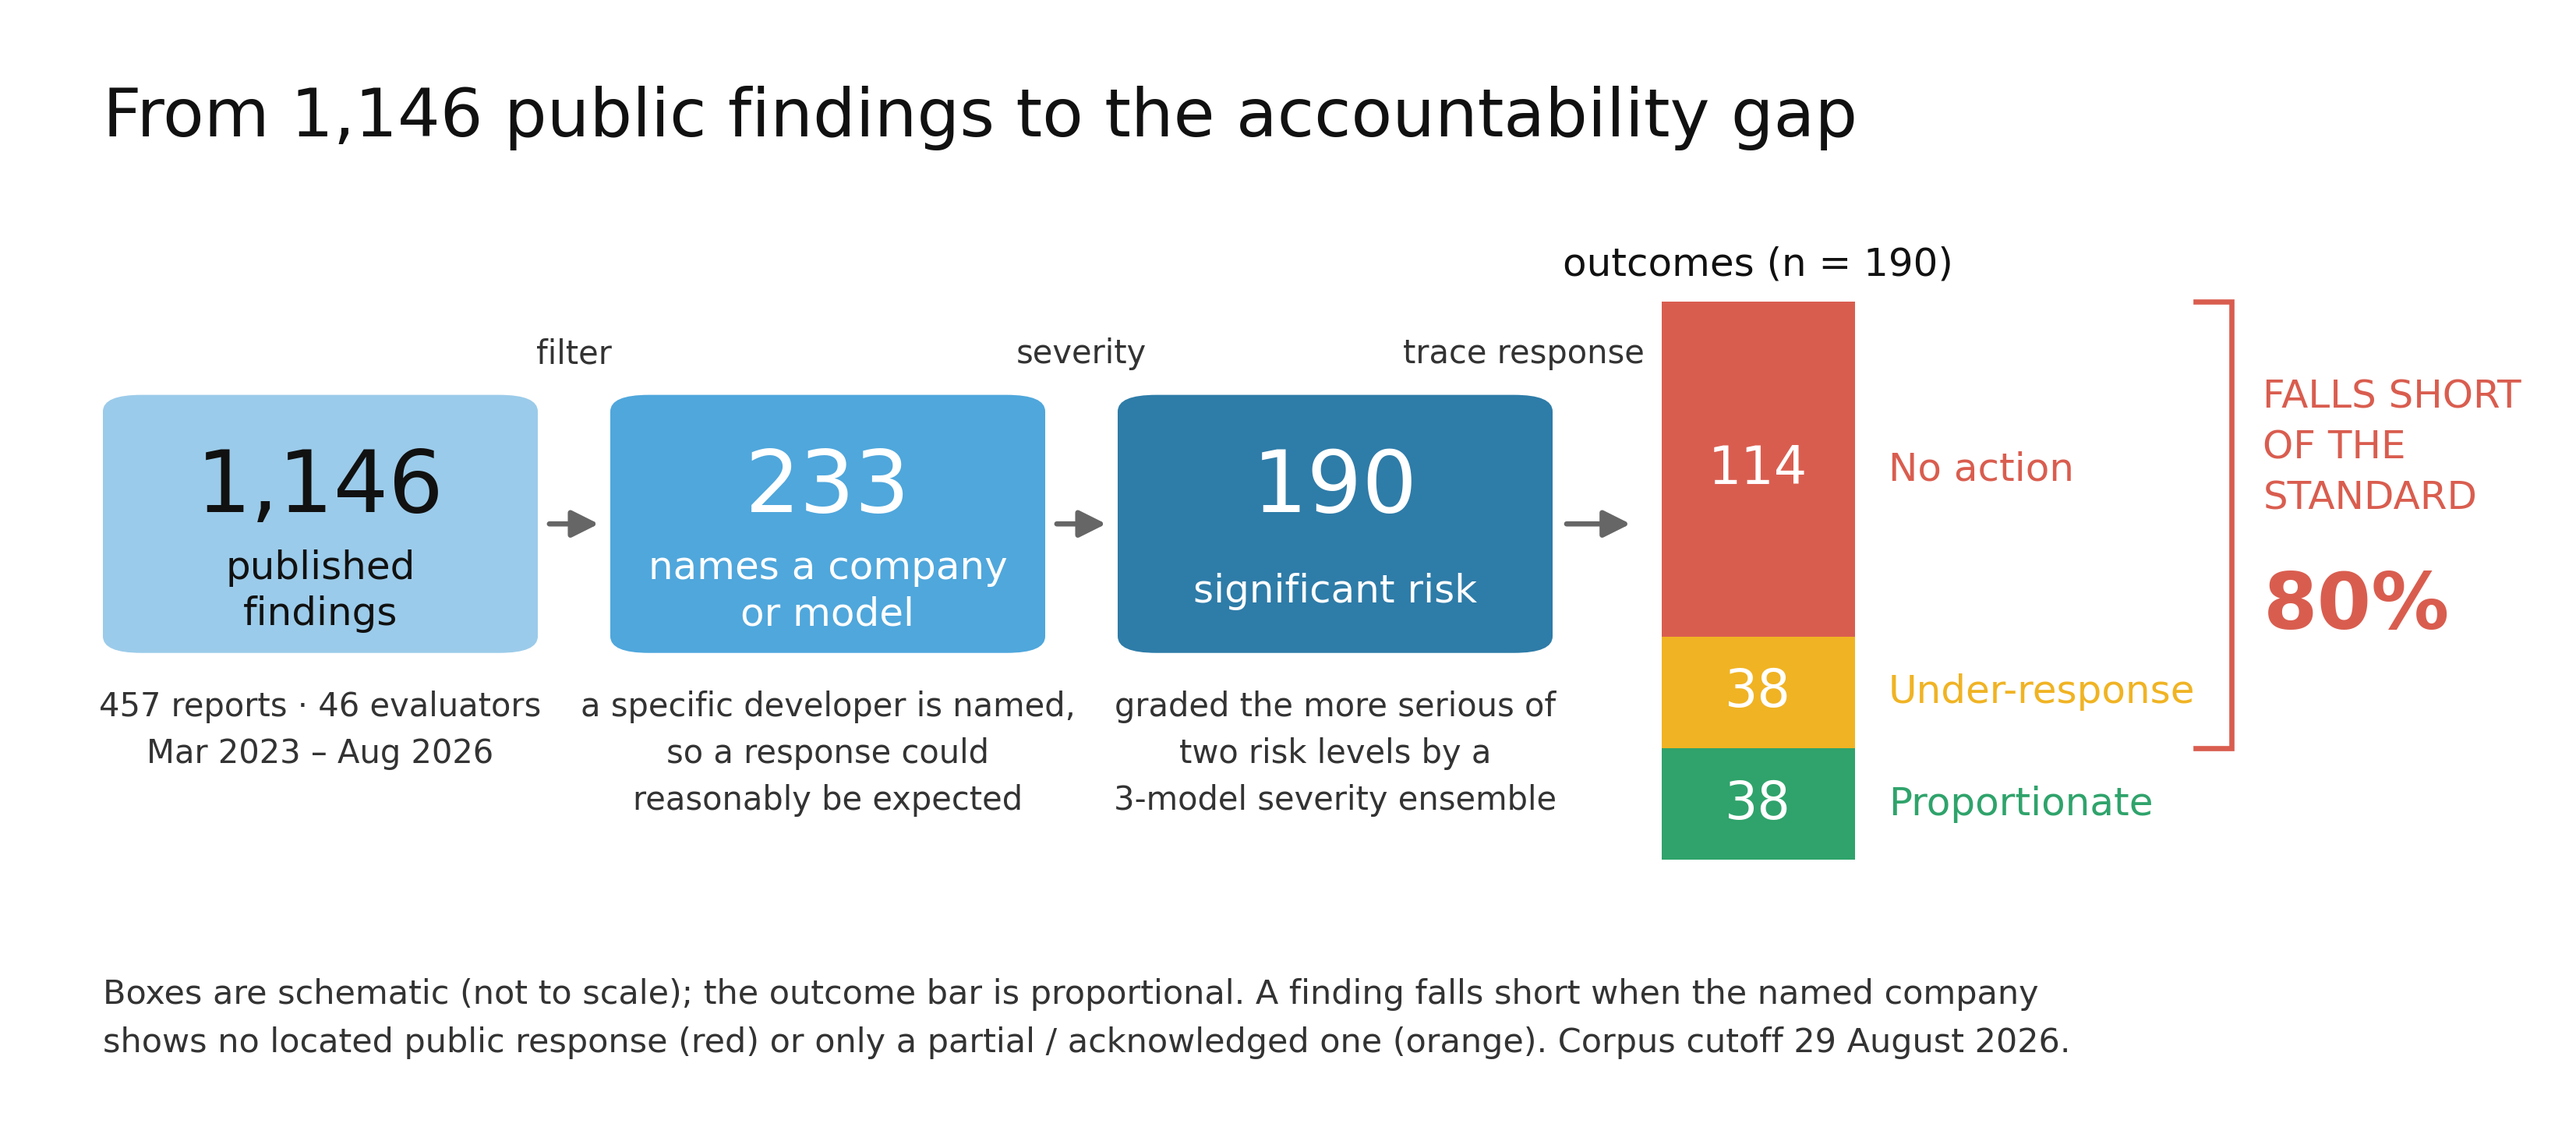
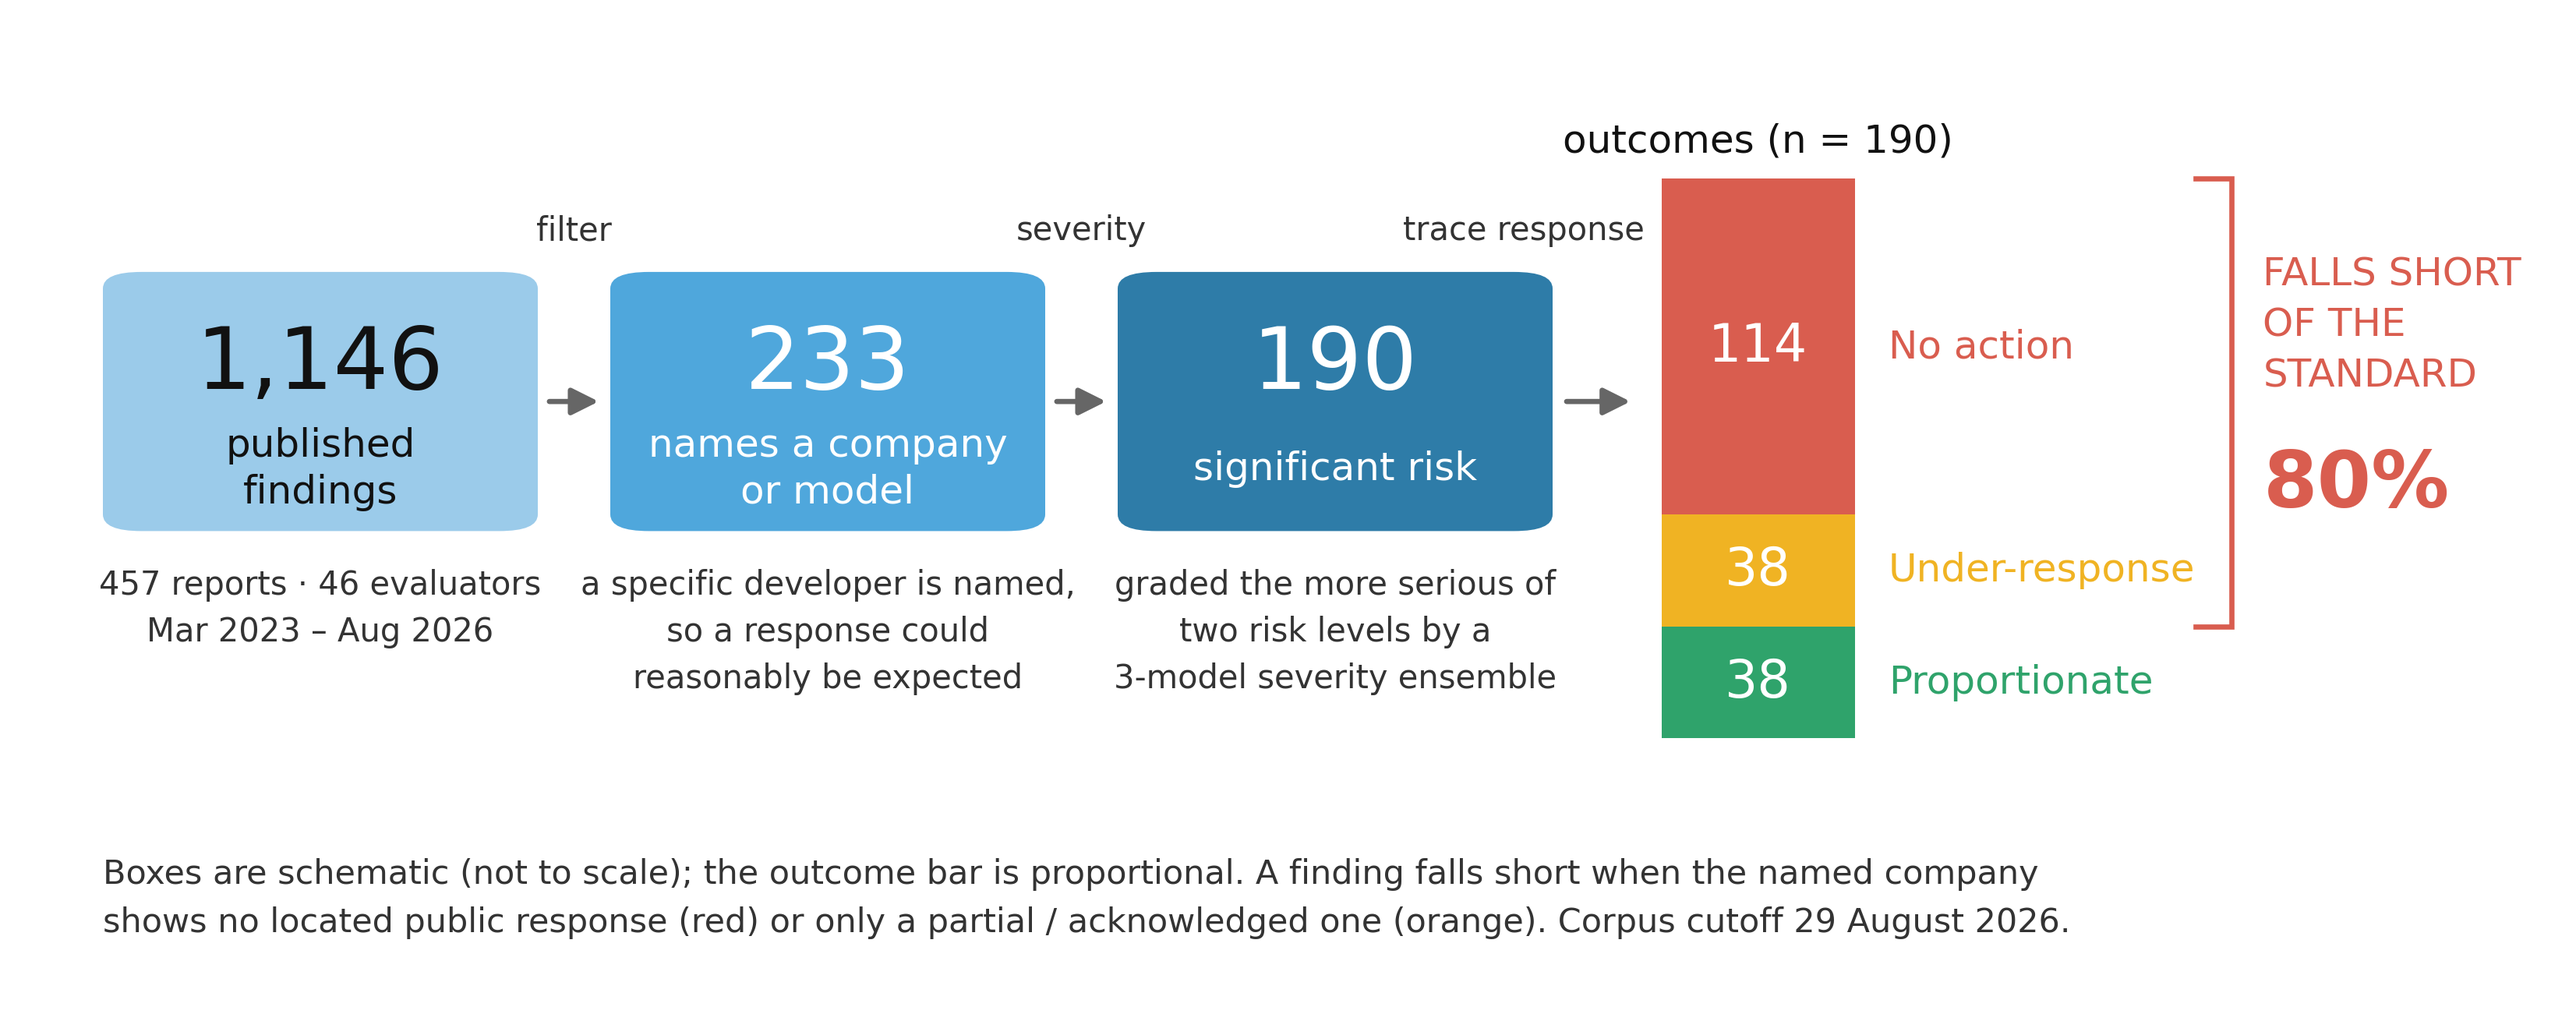
Remove the baked-in heading from the pipeline hero figure
The figure carried 'From 1,146 public findings to the accountability gap'
as text inside the image. A title baked into a figure duplicates whatever
caption it is given wherever it is placed, and the two then have to be kept
in sync by hand - the same class of problem as a chart title that restates
its own axis.

Removed, and the y-range tightened from 100 to 88 so the diagram fills the
canvas rather than leaving a band of white where the heading was. Canvas
drops from 3305x1464 to 3305x1310.

verify_charts PASS.

diff --git a/research/scripts/hero.py b/research/scripts/hero.py
@@ -29,9 +29,10 @@ gap,und,pro=c["Accountability gap (no action)"],c["Under-response (gap)"],c["Pro
 nrep=len({r["Report ID"] for r in R if r.get("Report ID")}); ninst=len({r["Institution"] for r in R})
 
 # ---------------------------------------------------------------- HERO
-fig,ax=plt.subplots(figsize=(20,8.6)); ax.set_xlim(0,100); ax.set_ylim(0,100); ax.axis("off")
-ax.text(2,97,f"From {len(R):,} public findings to the accountability gap",
-        fontsize=31,color="#111111",va="top")
+# No heading inside the figure. A title baked into the image duplicates the caption wherever the
+# figure is placed, and the two then have to be kept in sync by hand; the y-range is reclaimed so
+# the diagram fills the canvas instead of leaving a band of white where the heading was.
+fig,ax=plt.subplots(figsize=(20,7.6)); ax.set_xlim(0,100); ax.set_ylim(0,88); ax.axis("off")
 # Plain-language labels throughout: no tier letters, no severity codes.
 # The span was hard-coded "Jan 2023 - Jul 2026" and contradicted both the extended corpus window
 # and this figure's own cutoff footer. Derive it from the data so it cannot drift again.
